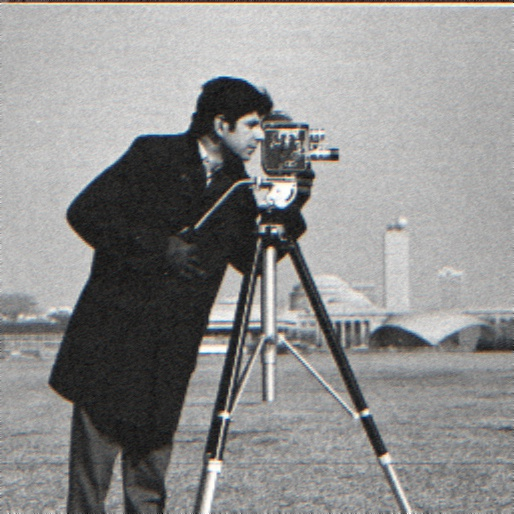
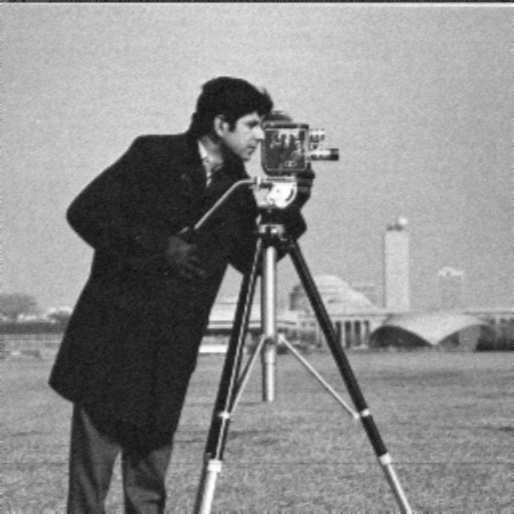
Updated q1 code to work with grayscale images, making it faster.

diff --git a/question1.py b/question1.py
@@ -26,7 +26,7 @@ def get_kernel():
 
 def get_mean_with_kernel(filter_area, kernel):
     # Fastest solution to multiply the matrices and get the result.
-    return np.einsum('ijk,ik->i', filter_area, kernel)
+    return np.sum(np.multiply(kernel, filter_area))
 
     """
     This is also slower, since it requires this operation to be done for each of the channels.
@@ -64,7 +64,7 @@ def mean_filter(image, height, width):
 
 
 def get_median(filter_area):
-    res = np.median(filter_area, axis=(1, 2))
+    res = np.median(filter_area)
     return res
 
 
@@ -114,7 +114,7 @@ def main():
 
     for image_name in IMAGE_NAMES:
         # Read and print the original image.
-        image = cv2.imread(IMAGES_DIRECTORY + image_name)
+        image = cv2.imread(IMAGES_DIRECTORY + image_name, 0)
         cv2.imshow('Original Image: %s' % image_name, image)
 
         # Calculate the mean and print the resulting image.
